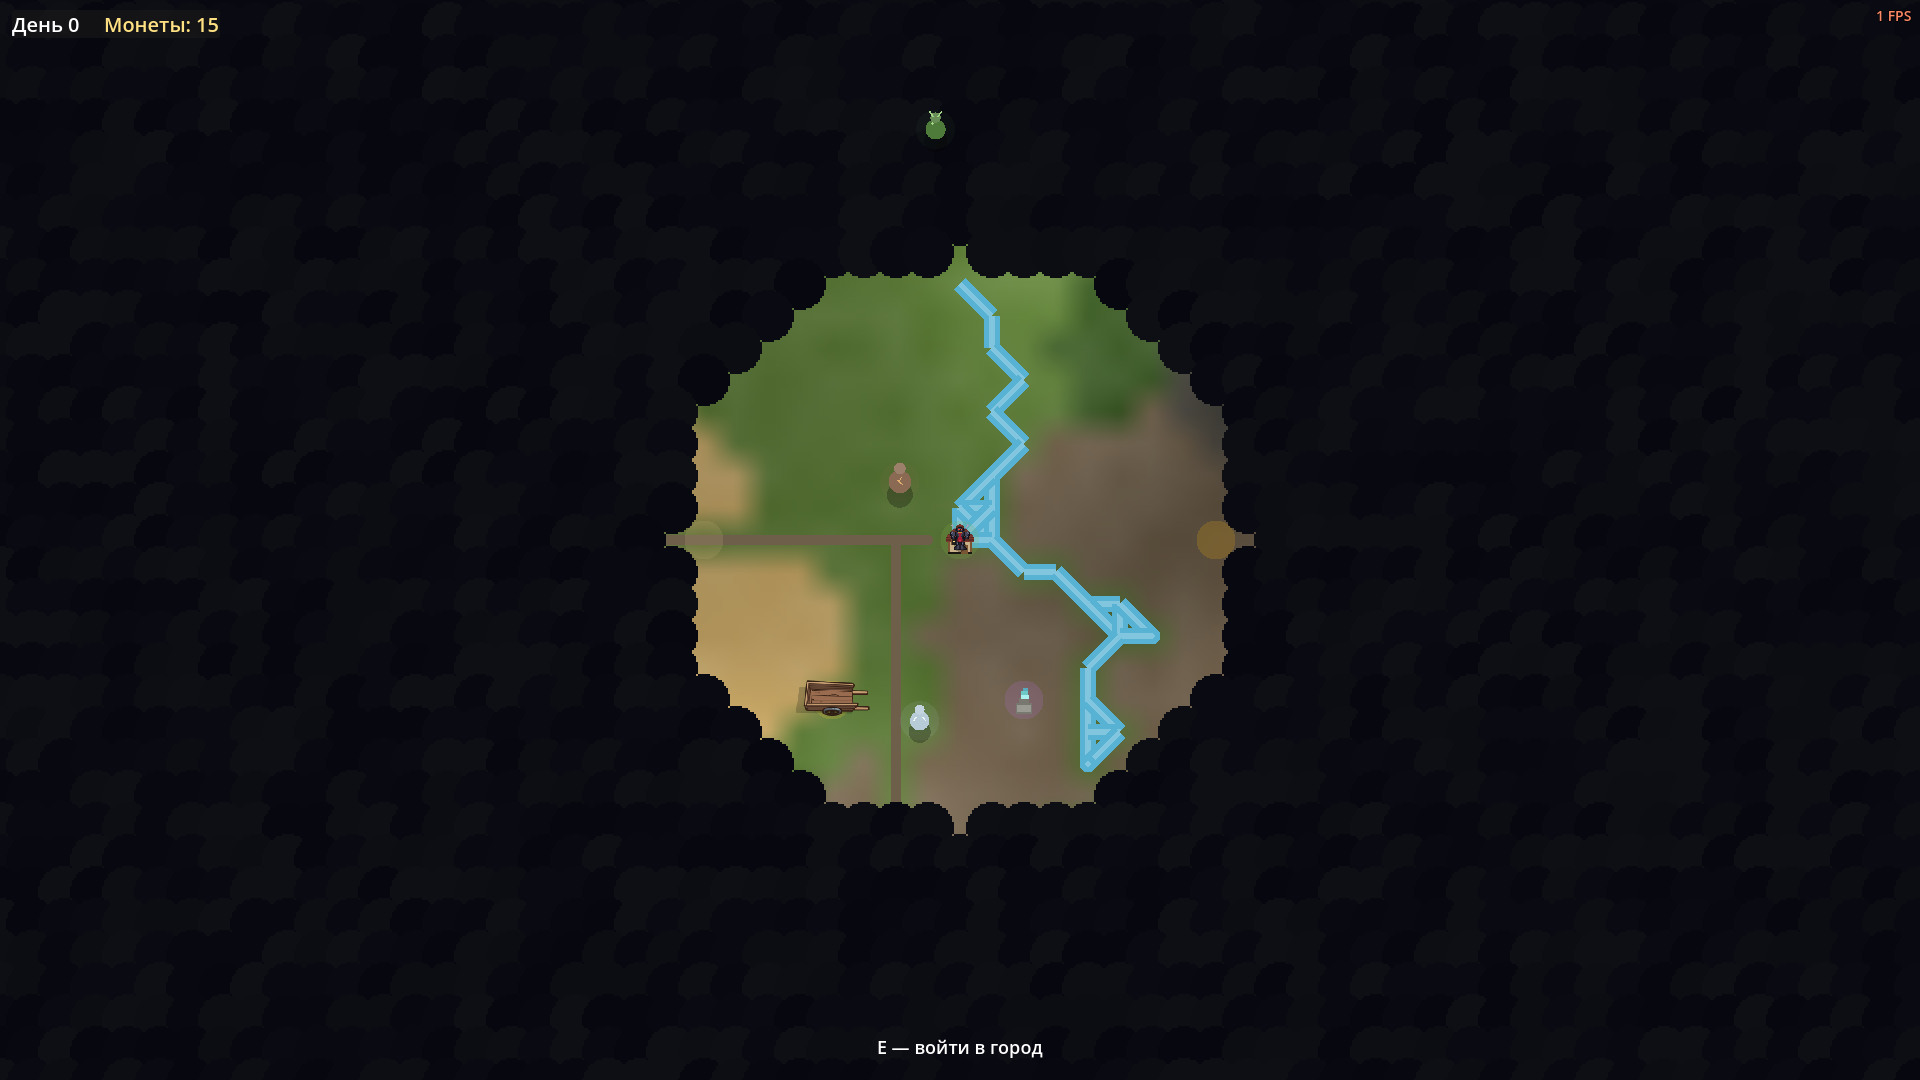
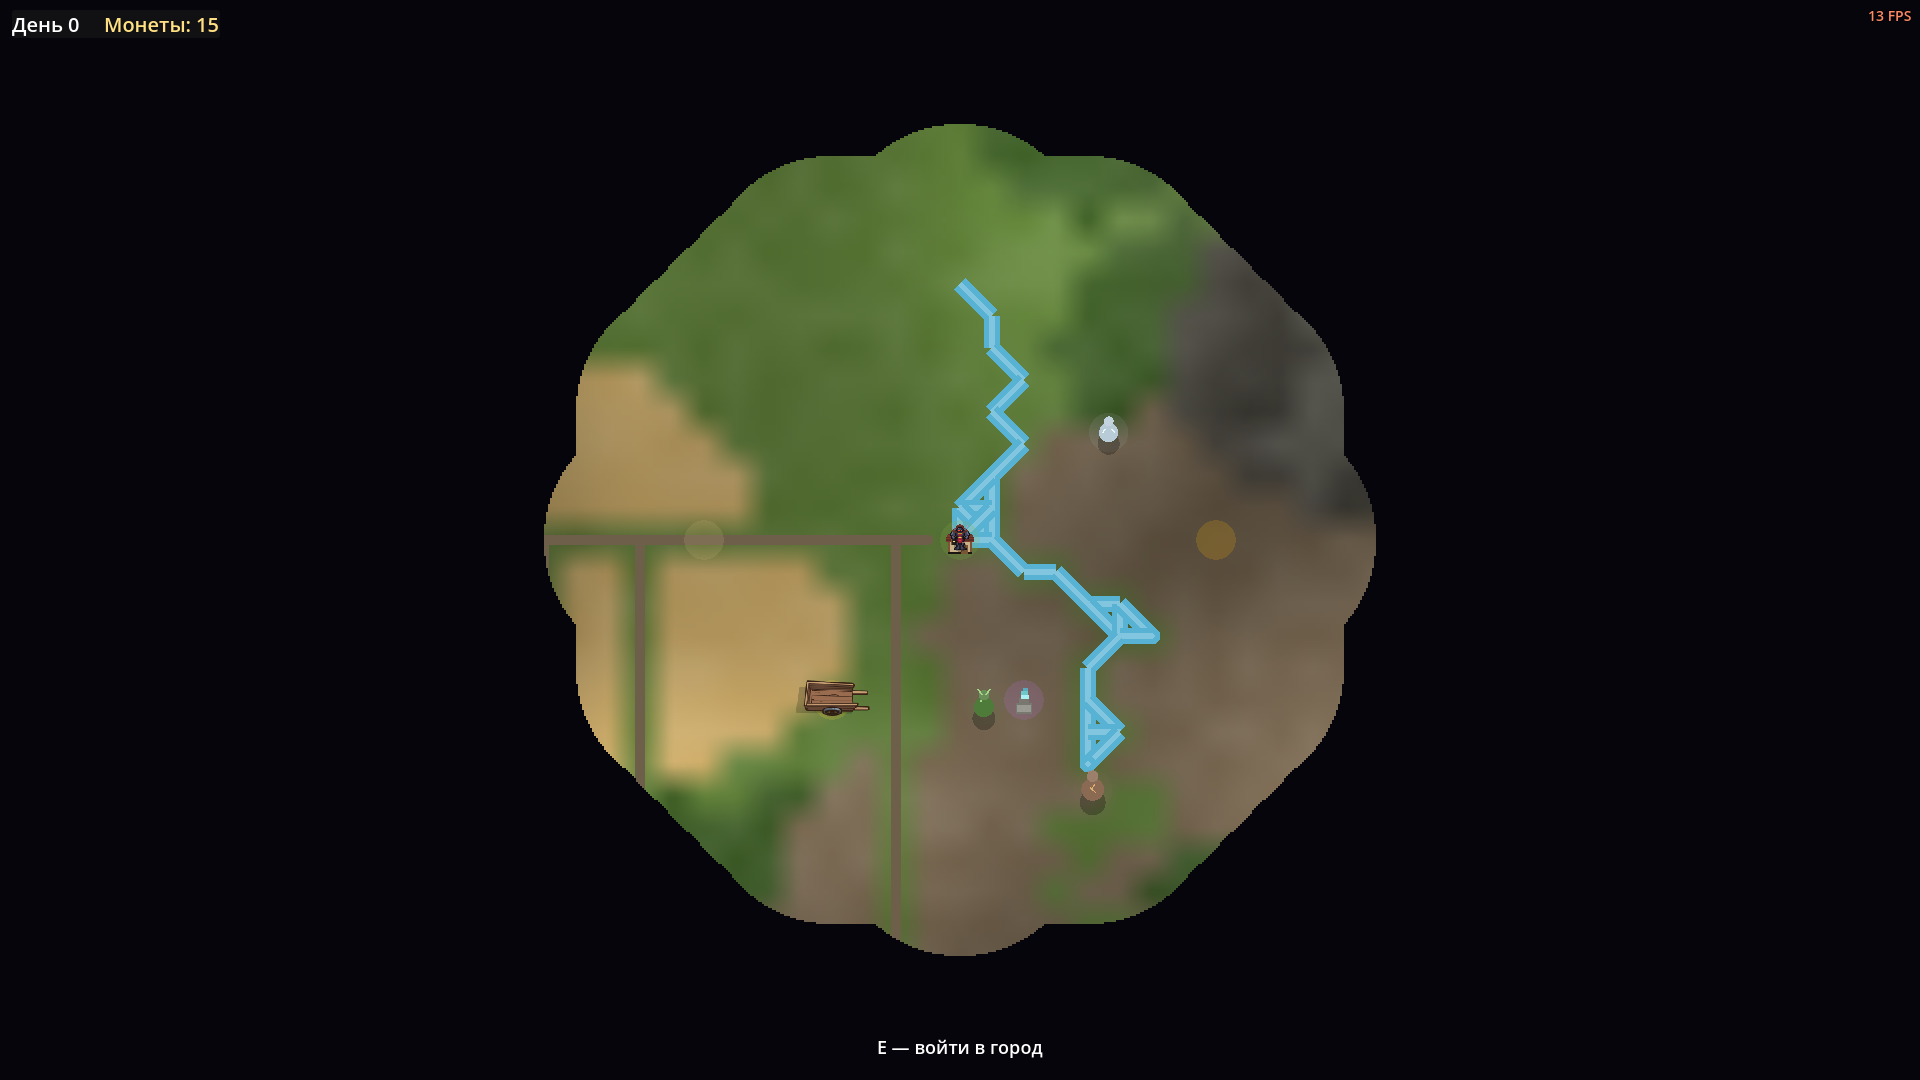
v1.40.3: пелена сплошная чёрная; починена потеря стирания тумана
Фидбек заказчика (скриншот, 145 FPS): «путь из белых точек, и туман не
рассеивается; туман войны сделай сплошной чёрной пеленой».

- Баг потери стирания: reveal_around очищал fog_new при каждом вызове —
  параллельные раскрытия (следы симуляции sim.advance_day, обелиски,
  найденные карты) затирали неотработанный список, и часть тайлов
  оставалась под пеленой навсегда («туман не рассеивается»). fog_new
  теперь накапливается до разбора view'ом.
- Пелена СПЛОШНАЯ: единый чёрный цвет (0.02/0.02/0.045) без фактуры
  кружков; рваной осталась только кромка.
- Стирание при ходьбе проверено скриншотом с контролем (SHOT_WALK:
  два пятна в тумане сливаются с раскрытым).

Тесты зелёные (4 проверки стирания); headless world — 0 ошибок.
Следующий шаг: приёмка; после — этап 3 «Поселения НПС».

diff --git a/CHANGELOG_E2.md b/CHANGELOG_E2.md
@@ -1201,6 +1201,30 @@ README.md.**
 нижнем углу города) и посмотреть; затем этап 2 «Глобальная карта v2»
 программы «Мир v2» — НОВЫЙ чат.**
 
+## v1.40.3 (2026-11-01): правки приёмки — пелена сплошная, потеря стирания починена
+
+Фидбек заказчика (скриншот, 145 FPS): «видишь, идёт путь из белых точек,
+и туман не рассеивается; туман войны сделай сплошной чёрной пеленой».
+
+- **Баг потери стирания**: reveal_around очищал fog_new при каждом вызове —
+  параллельные раскрытия (следы симуляции, обелиски, найденные карты)
+  затирали неотработанный список, и часть тайлов оставалась под пеленой
+  навсегда. Теперь fog_new НАКАПЛИВАЕТСЯ до разбора view'ом — стирание
+  не теряет тайлы.
+- **Пелена СПЛОШНАЯ**: единый чёрный цвет без фактуры кружков
+  (Color(0.02, 0.02, 0.045)), рваной осталась только кромка.
+- Стирание при ходьбе проверено скриншотом с контролем
+  (SHOT_WALK: два пятна в тумане сливаются с раскрытым).
+- **Флейк теста «сгустившийся заново данж» починен**: легендарные
+  странники спавнятся при каждом setup и рандомно пере-зачищают тестовую
+  руину (legend "clear") — из сценария test_eras они убраны (не его
+  предмет).
+- Тесты зелёные (включая 4 проверки стирания; 3 прогона подряд чисто),
+  headless world — 0 ошибок.
+
+**Файлы: scripts/world_map.gd, scripts/world_view.gd, tests/test_base.gd,
+tests/test_eras.gd, data/version.json, README.md.**
+
 ## v1.40.2 (2026-11-01): правки приёмки — туман-пелена со стиранием, FPS при передвижении
 
 Фидбек заказчика: «фпс падает при передвижении; убери облака, оставь

diff --git a/СЛЕДУЮЩИЙ-ШАГ.md b/СЛЕДУЮЩИЙ-ШАГ.md
@@ -3,8 +3,11 @@
 > Этот файл — первое место, куда смотреть: текущий статус и с чего начать
 > новый чат. Ссылка на него есть в самом верху `README.md`.
 
-## Текущий статус (2026-11-01, «Мир v2» этап 2 — v1.40.2 НА ПРИЁМКЕ)
+## Текущий статус (2026-11-01, «Мир v2» этап 2 — v1.40.3 НА ПРИЁМКЕ)
 
+- **v1.40.3 — пелена СПЛОШНАЯ чёрная (без фактуры), починена потеря
+  стирания тумана (fog_new накапливается — параллельные раскрытия не
+  теряют тайлы; «туман не рассеивается» был этим).**
 - **v1.40.2 — туман: чёрная пелена со стиранием (выбор заказчика); FPS
   при передвижении починен (статика карты не перепекается при ходьбе,
   раскрытие = дешёвое стирание кругов из текстуры тумана на каждом

diff --git a/README.md b/README.md
@@ -1,4 +1,4 @@
-# Пепел и Мана — v1.40.2
+# Пепел и Мана — v1.40.3
 
 [![Тесты](https://github.com/SDVGames-Studio/pepel-i-mana/actions/workflows/tests.yml/badge.svg)](https://github.com/SDVGames-Studio/pepel-i-mana/actions/workflows/tests.yml)
 
